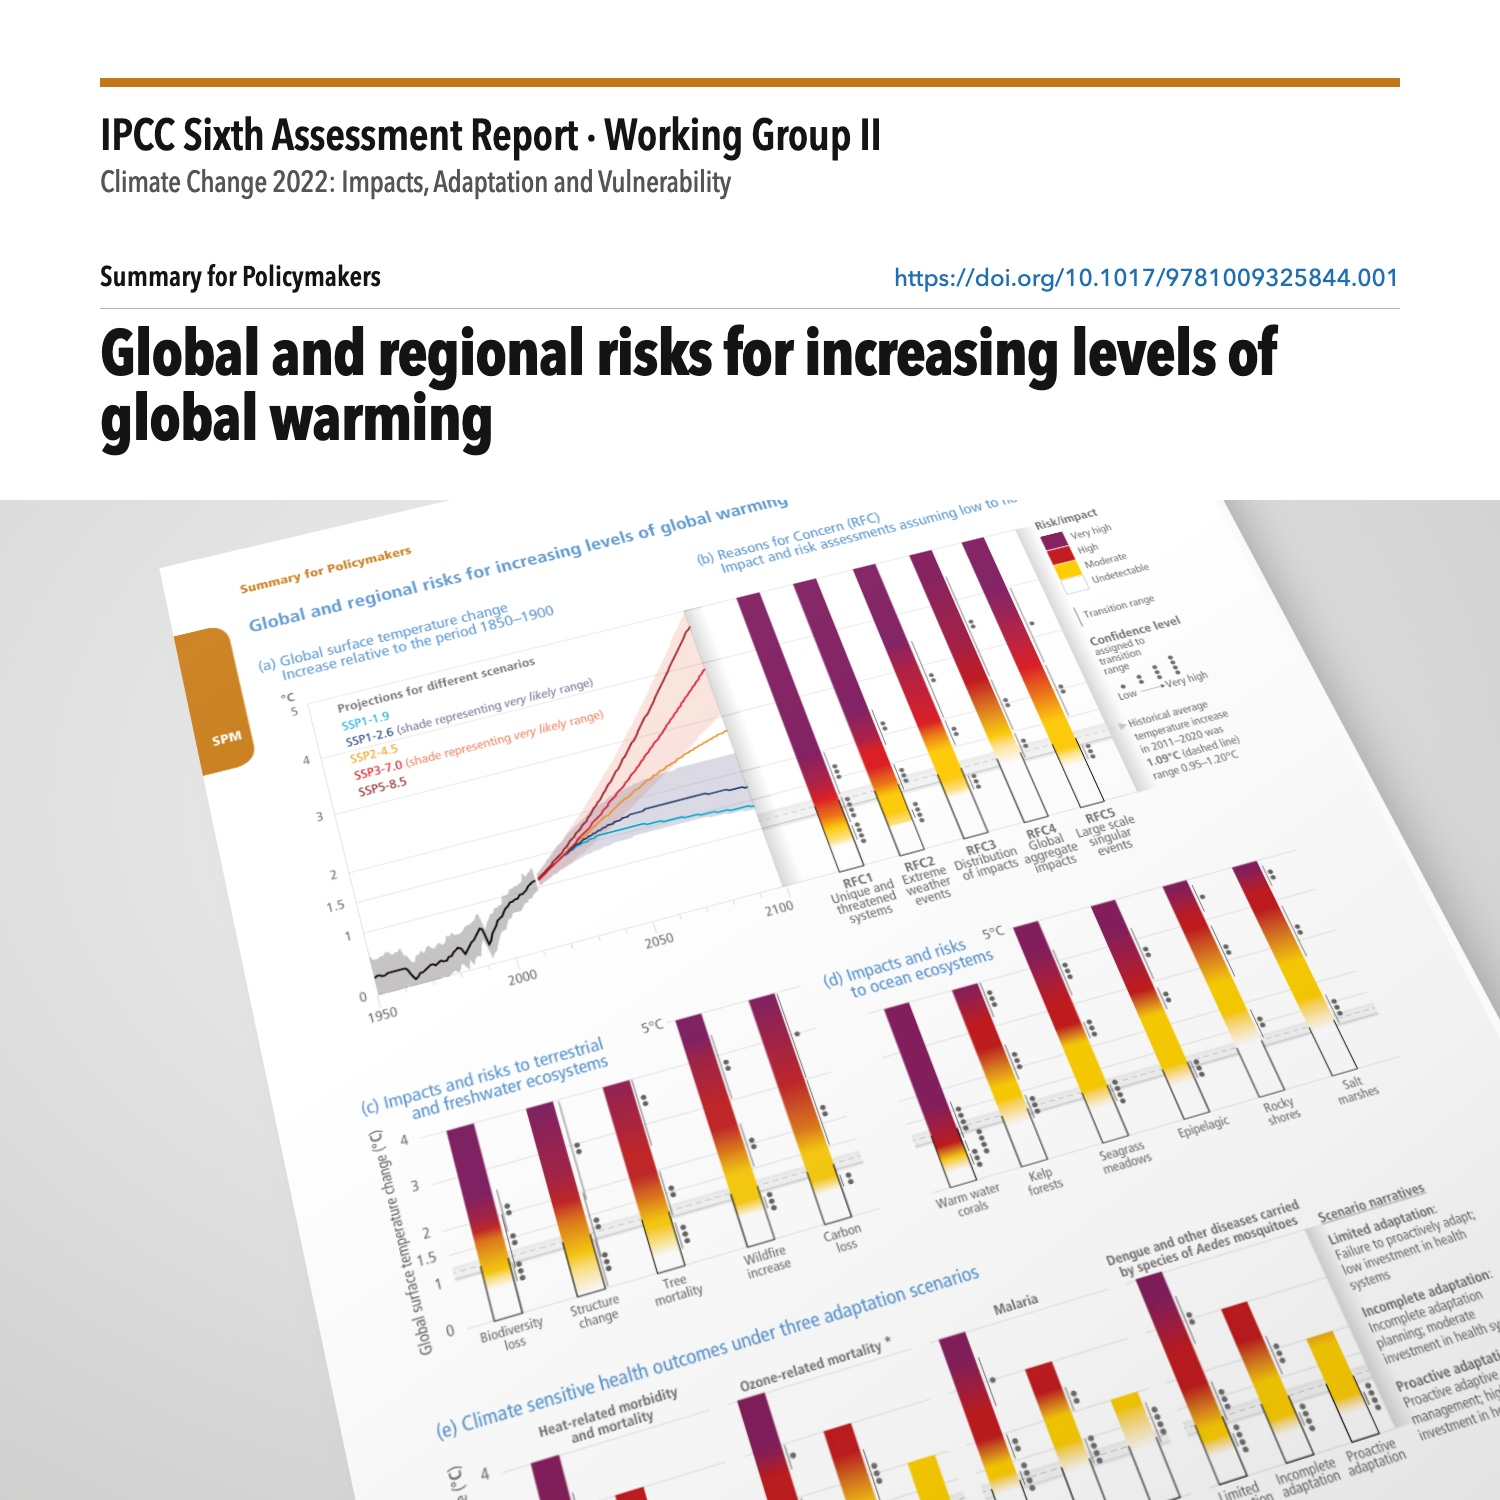
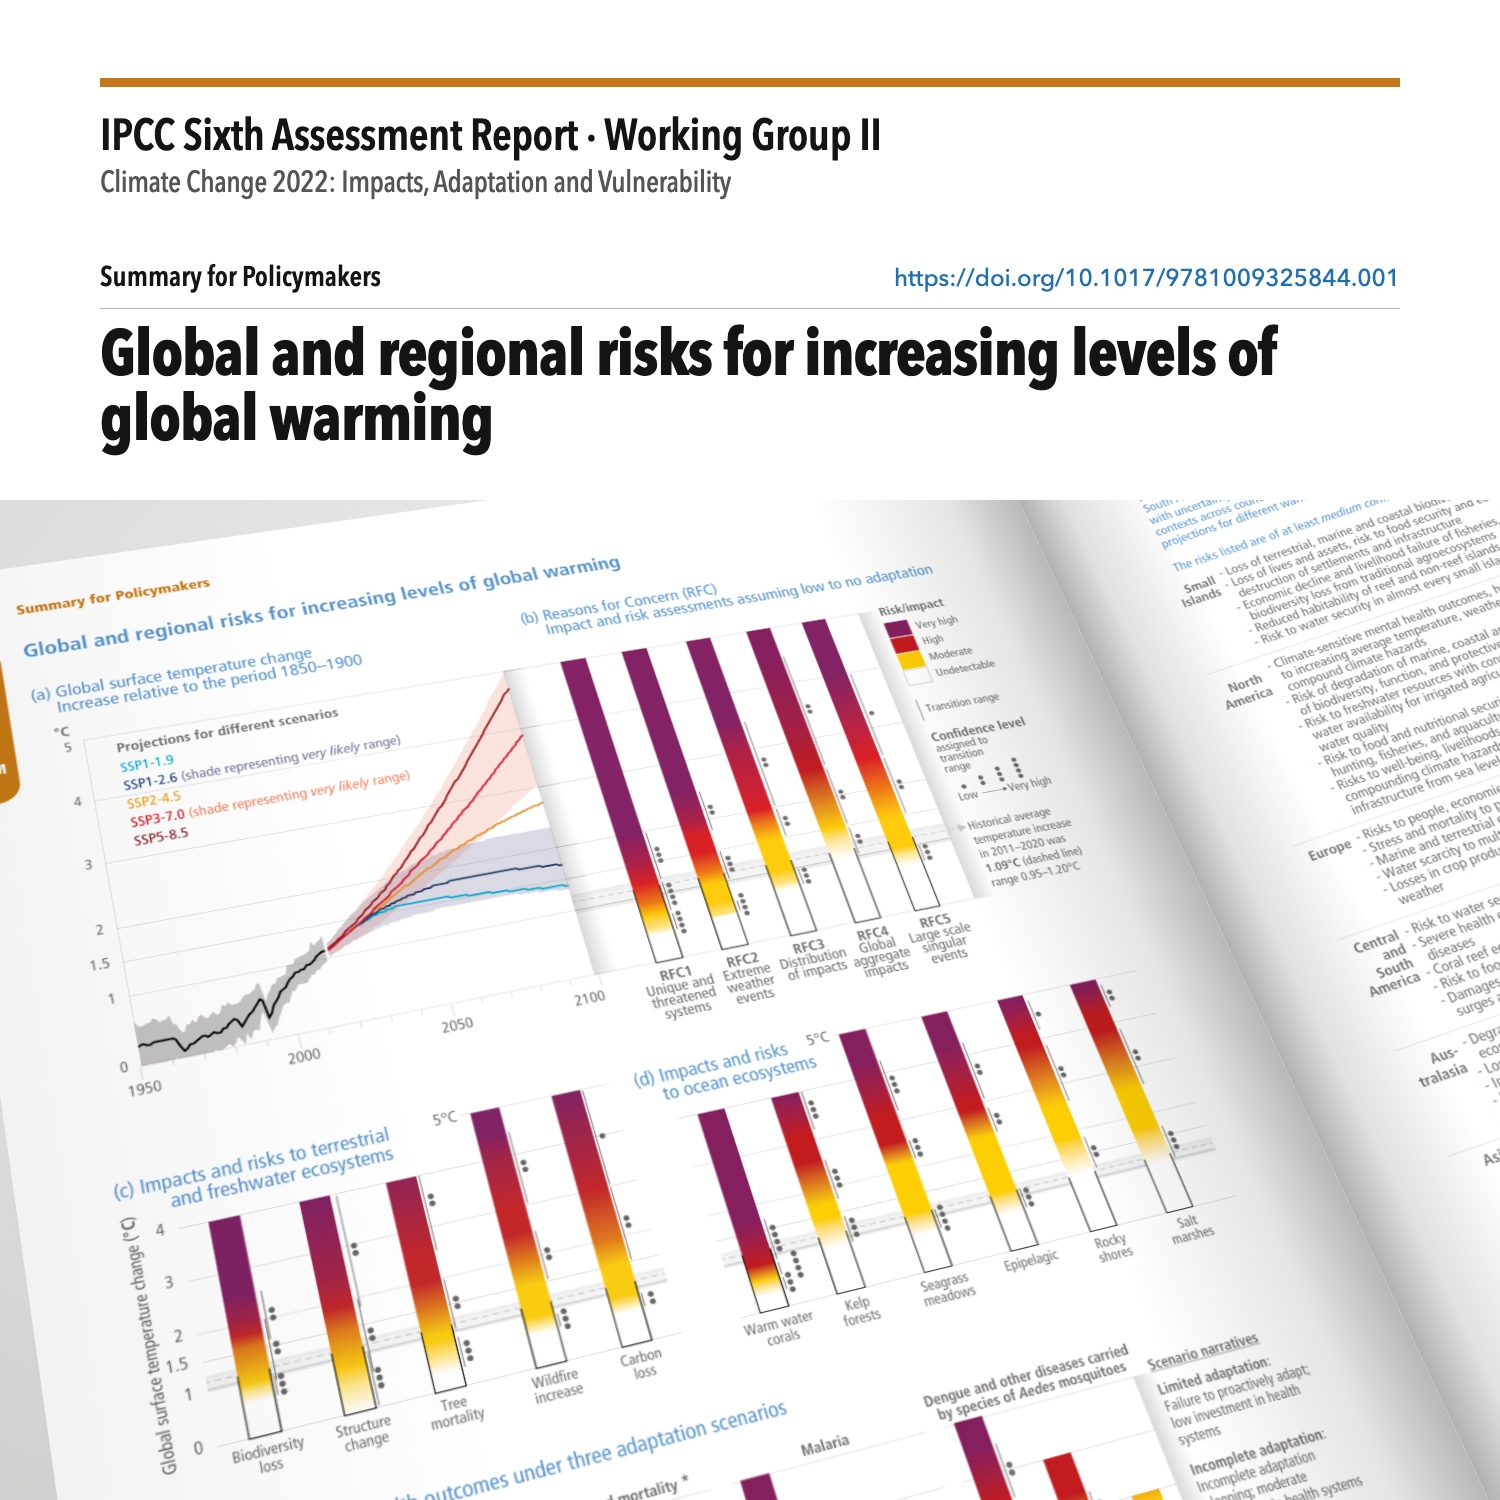
IPCC mockups as open spreads with the facing page in view
Both mockups now show the figure page with part of the facing page
across the spine (SROCC pp. 28-29, AR6 WGII SPM pp. 16-17, rendered
from the full reports), with a shaded gutter. SROCC stays zoomed in on
the maps and tilts the other way from WGII.

Changed region(s): [[0.0, 0.3067, 1.0, 1.0], [0.7667, 0.3067, 1.0, 0.736]]

diff --git a/js/site-data.js b/js/site-data.js
@@ -445,7 +445,7 @@ window.SITE = {
           title: "Global and regional risks for increasing levels of global warming",
           client: "IPCC AR6 WGII",
           report: { url: "https://doi.org/10.1017/9781009325844.001", year: "2022" },
-          alt: "Printed page from the Summary for Policymakers of the IPCC Working Group II report, Climate Change 2022, showing the figure 'Global and regional risks for increasing levels of global warming': projected warming to 2100 under five emissions scenarios beside burning-ember bars of rising risk for the Reasons for Concern, ecosystems and health."
+          alt: "Open printed spread of the Summary for Policymakers of the IPCC Working Group II report, Climate Change 2022, with the facing page partly in view and, on the left page, the figure 'Global and regional risks for increasing levels of global warming': projected warming to 2100 under five emissions scenarios beside burning-ember bars of rising risk for the Reasons for Concern, ecosystems and health."
         },
         {
           src: "images/portfolio/ipcc/IPCC_SROCC_ExtremeSeaLevelEvents.jpg",
@@ -454,7 +454,7 @@ window.SITE = {
           title: "Extreme sea level events",
           client: "IPCC SROCC",
           report: { url: "https://doi.org/10.1017/9781009157964.001", year: "2019" },
-          alt: "Printed page from the Summary for Policymakers of the IPCC Special Report on the Ocean and Cryosphere, showing Figure SPM.4, 'Extreme sea level events': a schematic of how sea level rise turns once-a-century extreme sea levels into yearly events, and world maps of when this happens at coastal locations under RCP8.5 and RCP2.6."
+          alt: "Open printed spread of the Summary for Policymakers of the IPCC Special Report on the Ocean and Cryosphere, with the facing page partly in view and, on the left page, Figure SPM.4, 'Extreme sea level events': a schematic of how sea level rise turns once-a-century extreme sea levels into yearly events, and world maps of when this happens at coastal locations under RCP8.5 and RCP2.6."
         }
       ]
     }
